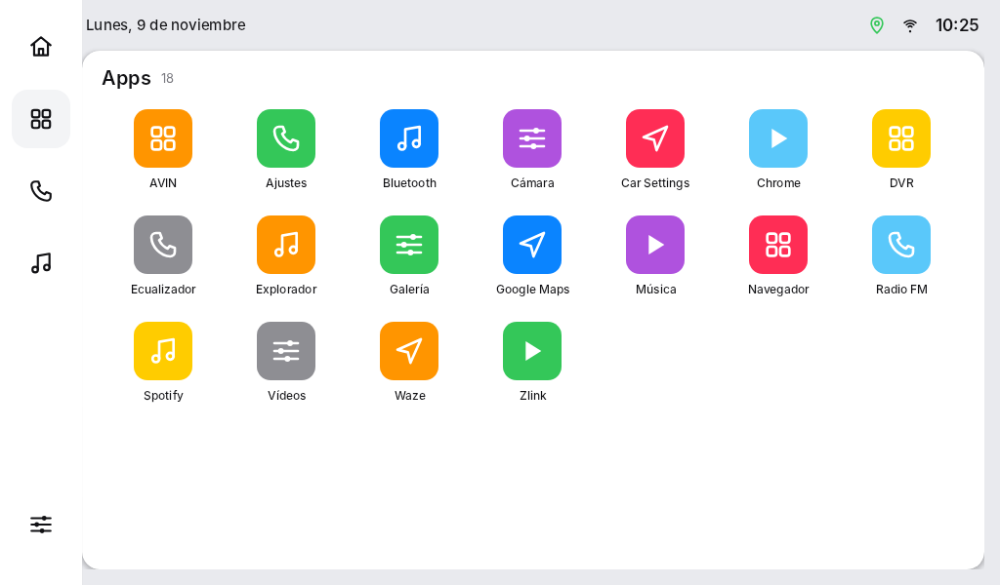
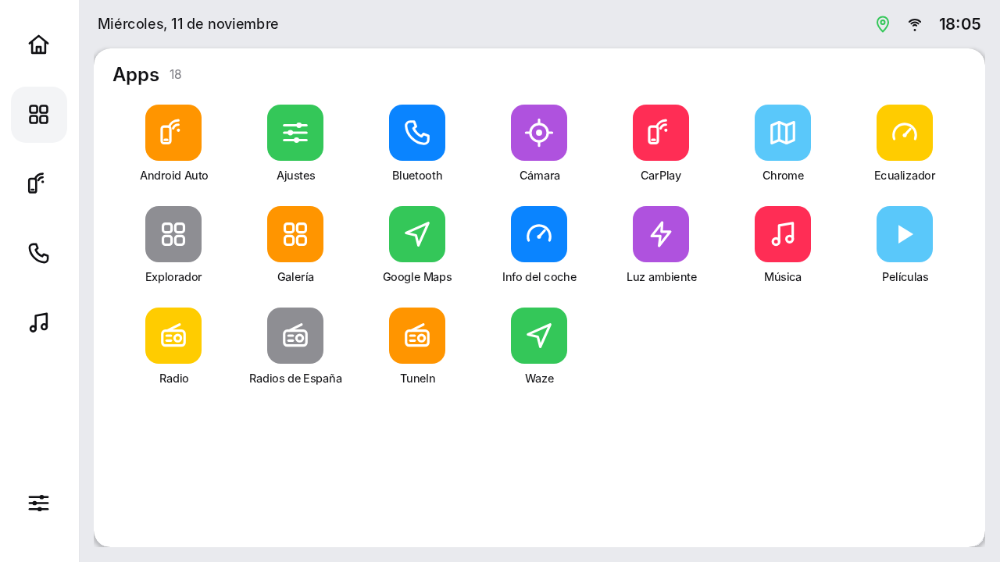
README: EdgeOS Car en portada, radios compatibles y cómo se construyó
El README principal presenta los dos launchers y explica EdgeOS Car a
fondo: capturas nuevas a 1280×720 (Inicio claro y oscuro, Música, Apps,
Sistema, constructor y Sistema completa en oscuro), qué hace, radios
compatibles y qué necesita cada función, cómo instalarlo, cómo se
construyó y cómo se comprueba. car/README.md se pone al día (versión 0.8,
pantalla 1280×720 de la k80_bsp).

Claude-Session: https://claude.ai/code/session_01PvmPvmMTmhy1XMN1nUXEbe

diff --git a/README.md b/README.md
@@ -1,128 +1,227 @@
 <div align="center">
 
-# EdgeOS · Vidrio
+# EdgeOS
 
-**Un launcher para Android con aspecto de iOS 26 ("Liquid Glass") que además limpia las apps de fábrica, sin root y sin PC.**
+**Dos launchers para Android: uno para la radio del coche y otro para el móvil.**
 
-Pensado para el **Motorola Edge 70 con Android 16**. Funciona en cualquier Android 13 o superior.
-
-[Qué hace](#qué-hace) · [Capturas](#capturas) · [Instalación](docs/INSTALACION.md) · [Volver atrás](#volver-atrás) · [Licencias](#licencias)
+[EdgeOS Car](#edgeos-car-la-radio-del-coche) · [Radios compatibles](#radios-compatibles) · [Instalar](#instalar-edgeos-car) ·
+[Cómo se construyó](#cómo-se-construyó) · [Vidrio (móvil)](#vidrio-el-móvil) · [Licencias](#licencias)
 
 </div>
 
-> [!IMPORTANT]
-> **Versión 0.1: compila, pero aún no se ha probado en un teléfono.** Si algo falla al abrirla, abre un *issue*
-> con lo que pasó.
->
-> Las imágenes de abajo son **maquetas del diseño**, no capturas reales. Se cambiarán por capturas del Edge 70
-> en cuanto la app funcione.
+| | Para | Qué es |
+|---|---|---|
+| **[EdgeOS Car](#edgeos-car-la-radio-del-coche)** | Radios Android de coche (Android 8 o superior) | Una capa completa sobre la radio: velocidad por GPS, mapa sin internet, música de cualquier fuente, tu coche a medida, modo oscuro y una pantalla para optimizar el sistema. |
+| **[Vidrio](#vidrio-el-móvil)** | Móviles con Android 13 o superior | Un inicio con aspecto de iOS 26 ("Liquid Glass") que limpia las apps de fábrica sin root. |
 
-## Qué hace
+---
 
-- **Inicio estilo iPhone**: cuadrícula de 4 columnas por páginas, puntos de página, botón **Buscar** sobre el
-  dock e iconos en cuadrado redondeado (sin la máscara de cada fabricante).
-- **Dock de vidrio** con hasta 4 apps. La primera vez pone el teléfono, los mensajes, el navegador y la cámara.
-- **Búsqueda** sin distinguir tildes ni mayúsculas: "camara" encuentra "Cámara".
-- **Mantener pulsada una app**: añadirla o quitarla del dock, ver su información, desinstalarla.
-- **Mantener pulsado el fondo**: cambiar el fondo de pantalla, ir a Limpieza o hacer de Vidrio el inicio.
-- **Limpieza** con [Shizuku](https://shizuku.rikka.app/): desactiva con `pm disable-user` las apps que la lista de
-  [UAD-ng](https://github.com/Universal-Debloater-Alliance/universal-android-debloater-next-generation) marca como
-  seguras de quitar. **No borra nada**, y *Restaurar todo* las vuelve a activar.
+## EdgeOS Car: la radio del coche
 
-El efecto de vidrio es [Kyant0/AndroidLiquidGlass](https://github.com/Kyant0/AndroidLiquidGlass): desenfoque,
-refracción en los bordes y viveza de color, en tiempo real.
+Las radios Android baratas traen un sistema lento, lleno de apps de fábrica, y cada función (radio, música,
+Bluetooth, Android Auto) con una interfaz distinta. **EdgeOS Car las reúne en una sola**, clara, rápida y pensada
+para mirarla de reojo mientras conduces. Las apps del fabricante siguen debajo, como "motores", pero ya no hace falta
+abrirlas.
 
-## Capturas
+> [!NOTE]
+> **Versión 0.8.** Está en uso en una radio k80_bsp de Reglink (Android 8.1). La **radio FM** y el **teléfono**
+> propios están en desarrollo: por ahora, esos accesos abren las apps de fábrica.
 
-<sub>Maquetas del diseño hechas con las medidas del código (dp de la app = px de la imagen). No son capturas
-de la app en marcha. Los iconos son genéricos, como ejemplo: en tu teléfono se ven los de tus apps.</sub>
+### Capturas
 
 <table>
   <tr>
-    <td align="center"><img src="docs/screenshots/home.png" width="260" alt="Pantalla de inicio: cuadrícula de iconos, puntos de página, botón Buscar y dock de vidrio"><br><b>Inicio</b></td>
-    <td align="center"><img src="docs/screenshots/search.png" width="260" alt="Búsqueda: el fondo desenfocado y los resultados de 'ca'"><br><b>Búsqueda</b></td>
-    <td align="center"><img src="docs/screenshots/menu.png" width="260" alt="Menú de una app: añadir al dock, información y desinstalar"><br><b>Menú de una app</b></td>
+    <td align="center"><img src="car/docs/home.png" width="440" alt="Inicio: tu coche con la velocidad, el panel de conducción, la música y los accesos rápidos"><br><b>Inicio</b></td>
+    <td align="center"><img src="car/docs/home-oscuro.png" width="440" alt="Inicio en modo oscuro"><br><b>Modo oscuro</b> (automático al anochecer)</td>
   </tr>
   <tr>
-    <td align="center"><img src="docs/screenshots/settings.png" width="260" alt="Ajustes del launcher al mantener pulsado el fondo"><br><b>Ajustes</b></td>
-    <td align="center"><img src="docs/screenshots/debloat.png" width="260" alt="Limpieza: lista de apps de Motorola que se pueden desactivar"><br><b>Limpieza</b></td>
+    <td align="center"><img src="car/docs/musica.png" width="440" alt="Música: lo que suena con carátula y controles, y la lista de canciones"><br><b>Música</b> de cualquier fuente</td>
+    <td align="center"><img src="car/docs/apps.png" width="440" alt="Todas las apps de la radio en una cuadrícula"><br><b>Apps</b></td>
+  </tr>
+  <tr>
+    <td align="center"><img src="car/docs/system.png" width="440" alt="Sistema: estado, optimización, ajustes y servicios innecesarios"><br><b>Sistema</b></td>
+    <td align="center"><img src="car/docs/carrocerias.png" width="440" alt="Las siete carrocerías del constructor de coche"><br><b>Constructor de coche</b></td>
+  </tr>
+</table>
+
+<details>
+<summary>Sistema completa, en modo oscuro (mapas, botones del volante y constructor)</summary>
+<br>
+<img src="car/docs/sistema-completo.png" width="560" alt="La pantalla Sistema entera en modo oscuro">
+</details>
+
+<sub>Son la interfaz real a 1280×720, dibujada en el ordenador con el motor de Android Studio y **datos de ejemplo**
+(velocidad, canciones, apps): no son fotos de la radio. El mapa no aparece porque necesita sus archivos de mapa, y
+en Sistema se lee "layoutlib" donde la radio pone su modelo.</sub>
+
+### Qué hace
+
+**Inicio**
+- **Tu coche visto desde arriba** con la **velocidad por GPS** en grande, el rumbo y la altitud. La aguja, el número
+  y el mapa se mueven de forma fluida: el GPS da un dato por segundo y EdgeOS calcula los fotogramas intermedios.
+- **En el centro, a elegir:** el **mapa** (OpenStreetMap en gris, **sin internet** con los mapas descargados) con el
+  botón *Navegar*, o un **panel de conducción** con velocímetro, distancia, tiempo en marcha, media y máxima.
+- **Música** y **accesos rápidos**: Android Auto, Radio, Teléfono y Navegar. Cada uno encuentra solo la app de tu radio.
+
+**Música**: una pantalla para **cualquier fuente** (Bluetooth del móvil, Spotify, TuneIn, Android Auto…), con
+carátula, barra de progreso que se arrastra y selector de fuentes, más un **reproductor propio** para la memoria
+interna y los USB que se pausa solo durante las llamadas.
+
+**Sistema**
+- **Estado** de la radio: memoria, almacenamiento y temperatura del procesador.
+- **Optimización**: liberar memoria, animaciones más rápidas y **servicios innecesarios** desactivables, como el
+  actualizador Adups, que envía datos a China. **Nada del coche aparece nunca** (radio, cámara, Bluetooth, CAN bus,
+  volante, audio, GPS) y *Restaurar todo* lo devuelve.
+- **Tema**: claro, oscuro o automático (amanecer y atardecer según donde estés).
+- **Mapas sin conexión**: la Comunidad de Madrid de un toque, o cualquier región del catálogo.
+- **Botones del volante**: los que llegan a Android se aprenden (una acción al pulsar y otra al mantener); los que
+  van por el microcontrolador de la radio se configuran en su herramienta de fábrica, enlazada desde aquí.
+- **Tu coche**: siete carrocerías y doce colores, o una foto propia (con una guía para crearla con IA).
+
+Todo en **pantalla completa**, sin la barra del sistema. Los detalles de cada función están en
+[`car/README.md`](car/README.md).
+
+### Radios compatibles
+
+**Requisitos:** Android **8.0 o superior** y pantalla horizontal, de cualquier resolución (el diseño se escala;
+revisado a 1024×600 y a 1280×720). Para la velocidad hace falta el GPS de la radio; internet es opcional.
+
+| Radio | Estado |
+|---|---|
+| **k80_bsp de Reglink** (MediaTek MT6580, 1 GB, Android 8.1 aunque se anuncie como 12, 1280×720, firmware `CMENZX80-U1`) | ✅ **En uso.** Es la radio para la que se hizo, inspeccionada a fondo. |
+| Otras radios **Reglink / "alps" con MT6580** | 🟡 Deberían funcionar igual (misma plataforma). Sin probar. |
+| **FYT** (Joying, Atoto…), **MTCD/MTCE** (PX5/PX6), **TS10**, **Allwinner T3/T5** y otras genéricas con Android 8–13 | 🟡 El launcher debería funcionar. Botones del volante y radio FM dependen de cada fabricante. Sin probar. |
+| Radios con Android 7 o anterior | ❌ No compatibles. |
+
+Qué necesita cada función:
+
+| Función | Funciona en |
+|---|---|
+| Inicio, velocidad, mapa, música, apps, tema, tu coche | Cualquier radio con Android 8+ |
+| Servicios innecesarios y animaciones rápidas | Radios con **root** o con el **ADB por red** activo (la mayoría lo traen); sin instalar nada más |
+| Botones del volante | Los que llegan a Android como teclas. En la k80_bsp van por el microcontrolador: se usa la herramienta de fábrica |
+| Android Auto | Radios con app receptora: Zlink, AutoKit, Carlinkit, TLink o la propia (en la k80_bsp, `yellow.android.aasink`) |
+| Radio FM y teléfono propios | En desarrollo, primero para la k80_bsp |
+
+¿Tienes otra radio? El script [`tools/inspeccionar-radio.sh`](tools/inspeccionar-radio.sh) la estudia por ADB sin
+cambiar nada; con su informe se puede adaptar EdgeOS Car a ella.
+
+### Instalar EdgeOS Car
+
+**Con Claude Code (lo fácil).** En una terminal:
+```bash
+git clone https://github.com/Smith-Develop/EdgeOS.git
+cd EdgeOS
+claude
+```
+y dile: *"Instala EdgeOS Car en mi radio Android, está en 192.168.1.50. Ve diciéndome lo que necesites de mí."*
+Instala lo que falte en el ordenador, compila, instala en la radio y solo te pide lo que se hace con la radio
+delante. Sigue [`CLAUDE.md`](CLAUDE.md).
+
+**A mano.** `./gradlew :car:assembleDebug`, copia `car/build/outputs/apk/debug/car-debug.apk` a la radio (memoria
+USB o `adb install -r`), ábrelo, acepta el permiso de ubicación y elige **EdgeOS Car** como pantalla de inicio. No
+desactives el launcher de fábrica: así siempre puedes volver a él. Los detalles están en [`car/README.md`](car/README.md).
+
+### Cómo se construyó
+
+EdgeOS Car se hizo **en conversación con [Claude Code](https://claude.com/claude-code)**: el propietario de la
+radio decidía qué quería y hacía las pruebas con la radio delante, y Claude escribía el código, lo compilaba y lo
+revisaba.
+
+1. **Punto de partida.** La idea viene de [Free My TV](https://github.com/simbasjungles/free-my-tv), que hace lo
+   mismo con los televisores: un inicio limpio y apps de fábrica desactivadas sin root. Su cliente ADB (MIT) es la
+   base de cómo EdgeOS Car consigue permisos de sistema.
+2. **Diseño.** Se partió de dos referencias de salpicaderos (tarjetas claras, coche visto desde arriba, mapa) y se
+   llevó a una cuadrícula de 1024×600 que se escala a cualquier pantalla.
+3. **Estudiar la radio antes de programar.** `tools/inspeccionar-radio.sh` sacó por ADB todo lo necesario: la
+   pantalla real (1280×720), Android 8.1 de verdad, la plataforma Reglink, que la radio FM usa el chip del MT6580 a
+   través de la app `mtkradio`, que los botones del volante no llegan a Android y que no hay caja CAN instalada.
+   Cada decisión de abajo sale de ese informe.
+4. **Iterar con la radio.** Cada versión se probó en el coche y se corrigió lo que fallaba: el coche que salía en
+   blanco, la velocidad a saltos, la barra del sistema que se veía arriba…
+
+**Decisiones técnicas**
+- **Vistas clásicas de Android, sin Compose ni AndroidX:** la radio tiene una GPU Mali-400 y 1 GB de RAM, y así va
+  más ligera. El APK ocupa unos 3 MB.
+- **Fluidez:** valores animados fotograma a fotograma con `Choreographer` (`ui/Tween.kt`), y animaciones que se
+  paran cuando no se ven, para no gastar procesador con otra app delante.
+- **Permisos sin apps externas:** root si lo hay; si no, un cliente ADB propio que se conecta a la propia radio en
+  `127.0.0.1:5555` (`system/LocalAdb.kt`). Solo se desactiva con `pm disable-user`, nunca se desinstala.
+- **Coche dibujado, no foto:** las carrocerías son trazados con degradados (`ui/CarArt.kt`). En esta GPU, las
+  imágenes grandes dentro de tarjetas recortadas podían no pintarse.
+- **Mapas vectoriales** de Mapsforge con datos de OpenStreetMap, dibujados en la propia radio: funcionan sin
+  internet y siguen el modo oscuro.
+- **Una sola sesión multimedia por fuente:** la música de cualquier app se lee y se controla con las sesiones
+  multimedia de Android; el reproductor propio publica la suya, para que lo controlen los botones del volante.
+
+**Cómo se comprueba**
+- Compila con AGP 9.3 y Kotlin 2.4 (`compileSdk 37`, `minSdk 26`, `targetSdk 36`).
+- La interfaz se revisa sin radio, dibujándola a 1024×600 y 1280×720 con
+  [Paparazzi](https://github.com/cashapp/paparazzi) (el motor de vista previa de Android Studio): así salen las
+  capturas de arriba, y así apareció un fallo que cerraba la app al arrancar antes de que llegara a la radio.
+- Pruebas unitarias del lector del catálogo de mapas (`./gradlew :car:testDebugUnitTest`).
+- Lo que no se puede ver en el ordenador (GPS, sesiones multimedia, ADB) se prueba en la radio, y la app deja
+  diagnóstico en `adb logcat -s EdgeOSCar`.
+
+**Próximos pasos:** radio FM propia (dial, emisoras y RDS), teléfono por Bluetooth, y datos del coche (puertas,
+luces, gasolina) con una caja CAN o un adaptador OBD2, con un modo para "enseñarle" a reconocerlos.
+
+---
+
+## Vidrio: el móvil
+
+Un launcher con aspecto de iOS 26 ("Liquid Glass") que además limpia las apps de fábrica, sin root y sin PC.
+Pensado para el **Motorola Edge 70 con Android 16**; funciona en cualquier Android 13 o superior.
+
+> [!IMPORTANT]
+> **Versión 0.1: compila, pero aún no se ha probado en un teléfono.** Las imágenes son **maquetas del diseño**,
+> no capturas reales.
+
+- **Inicio estilo iPhone**: cuadrícula de 4 columnas por páginas, puntos de página, botón **Buscar** sobre el
+  dock e iconos en cuadrado redondeado.
+- **Dock de vidrio** con hasta 4 apps; la primera vez pone teléfono, mensajes, navegador y cámara.
+- **Búsqueda** sin distinguir tildes ni mayúsculas.
+- **Mantener pulsada una app**: dock, información, desinstalar. **Mantener pulsado el fondo**: fondo de pantalla,
+  Limpieza, hacer de Vidrio el inicio.
+- **Limpieza** con [Shizuku](https://shizuku.rikka.app/): desactiva las apps que
+  [UAD-ng](https://github.com/Universal-Debloater-Alliance/universal-android-debloater-next-generation) marca como
+  seguras de quitar. **No borra nada** y *Restaurar todo* las vuelve a activar.
+
+El vidrio es [Kyant0/AndroidLiquidGlass](https://github.com/Kyant0/AndroidLiquidGlass): desenfoque, refracción y
+viveza de color en tiempo real.
+
+<table>
+  <tr>
+    <td align="center"><img src="docs/screenshots/home.png" width="220" alt="Pantalla de inicio: cuadrícula de iconos, puntos de página, botón Buscar y dock de vidrio"><br><b>Inicio</b></td>
+    <td align="center"><img src="docs/screenshots/search.png" width="220" alt="Búsqueda: el fondo desenfocado y los resultados de 'ca'"><br><b>Búsqueda</b></td>
+    <td align="center"><img src="docs/screenshots/menu.png" width="220" alt="Menú de una app: añadir al dock, información y desinstalar"><br><b>Menú de una app</b></td>
+  </tr>
+  <tr>
+    <td align="center"><img src="docs/screenshots/settings.png" width="220" alt="Ajustes del launcher al mantener pulsado el fondo"><br><b>Ajustes</b></td>
+    <td align="center"><img src="docs/screenshots/debloat.png" width="220" alt="Limpieza: lista de apps de Motorola que se pueden desactivar"><br><b>Limpieza</b></td>
     <td></td>
   </tr>
 </table>
 
-## Instalación
+**Instalar:** con Claude Code, dile *"Instala EdgeOS en mi Moto Edge 70. Ve diciéndome lo que necesites de mí."*
+A mano, la guía paso a paso está en [`docs/INSTALACION.md`](docs/INSTALACION.md).
 
-### La forma fácil: con Claude Code
+**Volver atrás:** Limpieza → *Restaurar todo*, y en Ajustes → Apps → Apps predeterminadas → App de inicio, el
+launcher de Motorola. Vidrio nunca ofrece desactivar launchers, Ajustes, la interfaz del sistema ni Shizuku.
 
-El repo trae instrucciones para [Claude Code](https://claude.com/claude-code) ([`CLAUDE.md`](CLAUDE.md)): él
-instala las herramientas, compila, corrige los errores, instala la app en el teléfono y solo te pide lo que tienes
-que hacer tú con el móvil en la mano.
+**Cómo está hecho:** Kotlin + Jetpack Compose, AGP 9.3, Kotlin 2.4, `compileSdk 37`, `minSdk 33`, `targetSdk 36`.
+El fondo lo dibuja el propio launcher: Android 13+ no deja que una app normal lea el del sistema.
 
-1. Instala Claude Code en tu ordenador ([guía](https://code.claude.com/docs/en/quickstart)).
-2. Abre una terminal y ejecuta:
-   ```bash
-   git clone https://github.com/Smith-Develop/EdgeOS.git
-   cd EdgeOS
-   claude
-   ```
-3. Dile:
-   > Instala EdgeOS en mi Moto Edge 70. Ve diciéndome lo que necesites de mí.
-
-Te pedirá permiso antes de instalar algo en el ordenador o de cambiar algo en el teléfono.
-
-### A mano
-
-La guía completa, paso a paso y con solución de problemas, está en **[docs/INSTALACION.md](docs/INSTALACION.md)**.
-En resumen:
-
-1. En el móvil, activa las **Opciones de desarrollador** y la **Depuración USB**.
-2. En el PC, instala [Android Studio](https://developer.android.com/studio) y abre esta carpeta.
-3. Conecta el móvil por USB y pulsa ▶ *Run 'app'* (o `./gradlew installDebug`).
-4. En el móvil, abre Vidrio → mantén pulsado el fondo → *Usar Vidrio como inicio*.
-5. Para Limpieza: instala **Shizuku**, inícialo con *Depuración inalámbrica* y dale permiso a Vidrio.
-
-## Volver atrás
-
-- **Apps desactivadas**: Limpieza → *Restaurar todo*. Si desinstalaste Vidrio sin restaurar, actívalas desde
-  Ajustes → Apps, o con `adb shell pm enable <paquete>`.
-- **Launcher de Motorola**: Ajustes → Apps → Apps predeterminadas → App de inicio → el launcher de Motorola.
-
-Vidrio nunca ofrece desactivar ningún launcher (tampoco el de Motorola), ni Ajustes, la interfaz del sistema o
-Shizuku. Las apps que UAD-ng marca como *Expert* o *Unsafe* no aparecen nunca.
-
-## Cómo está hecho
-
-| Carpeta | Qué hay |
-|---|---|
-| `app/src/main/kotlin/io/vidrio/launcher/` | `MainActivity` (la actividad HOME), `AppsModel` (apps e iconos), `Prefs` |
-| `…/ui/` | Compose: `Home`, `Overlays` (búsqueda, menús), `DebloatScreen`, `Glass` (el vidrio), `Wallpaper` |
-| `…/debloat/` | `Shell` (comandos vía Shizuku) y `Debloater` (la lista de UAD-ng, desactivar y restaurar) |
-| `docs/` | La guía de instalación y las imágenes |
-
-- Kotlin + Jetpack Compose, AGP 9.3, Kotlin 2.4, `compileSdk 37`, `minSdk 33`, `targetSdk 36`.
-- El fondo lo dibuja el propio launcher: Android 13+ no deja que una app normal lea el fondo del sistema,
-  y el vidrio solo puede desenfocar lo que hay en su propia ventana.
-
-## Próximos pasos
-
-- [ ] Compilar y probar en el Edge 70, y cambiar las maquetas por capturas reales.
-- [ ] Reordenar iconos arrastrándolos y carpetas.
-- [ ] Widgets (reloj, tiempo) y la Biblioteca de apps.
-- [ ] Centro de control y animaciones al abrir apps.
+---
 
 ## Licencias
 
-- Código de EdgeOS · Vidrio: aún sin licencia elegida.
-- La lista de UAD-ng es **GPL-3**: se **descarga** al usar Limpieza y no va dentro del APK.
+- Código de EdgeOS (Car y Vidrio): aún sin licencia elegida.
+- [osmdroid](https://github.com/osmdroid/osmdroid): Apache 2.0. [Mapsforge](https://github.com/mapsforge/mapsforge):
+  LGPL-3.0. Datos de mapa © colaboradores de [OpenStreetMap](https://www.openstreetmap.org/copyright), ODbL.
+- Cliente ADB de EdgeOS Car adaptado de [Free My TV](https://github.com/simbasjungles/free-my-tv) (MIT).
 - [AndroidLiquidGlass](https://github.com/Kyant0/AndroidLiquidGlass) (`backdrop`, `shapes`): Apache 2.0.
-- [Shizuku API](https://github.com/RikkaApps/Shizuku-API): Apache 2.0.
+  [Shizuku API](https://github.com/RikkaApps/Shizuku-API): Apache 2.0.
+- La lista de UAD-ng es **GPL-3**: se **descarga** al usarla y no va dentro de los APK.
 - Fuente Inter: SIL Open Font License ([`LICENSE-Inter-OFL.txt`](LICENSE-Inter-OFL.txt)).
-- No se usa ningún recurso de Apple: ni iconos, ni SF Symbols, ni SF Pro, ni fondos.
-
-## EdgeOS Car
-
-En [`car/`](car/README.md) hay un segundo launcher, para **radios Android de coche** (la k80_bsp y parecidas):
-velocidad por GPS, mapa o panel de conducción, música, accesos rápidos y una pantalla para optimizar la radio y
-desactivar servicios innecesarios sin root.
-
-Inspirado en [Free My TV](https://github.com/simbasjungles/free-my-tv).
+- No se usa ningún recurso de Apple ni de fabricantes de coches.

diff --git a/car/README.md b/car/README.md
@@ -5,11 +5,12 @@ visto desde arriba con la velocidad, el mapa o un panel de conducción, la músi
 **Sistema**, una pantalla para optimizar la radio y desactivar servicios que no hacen falta, sin root y con
 vuelta atrás.
 
-Pensado para la **k80_bsp** (MediaTek MT6580, Android 8.1, 1024×600) y radios parecidas. Funciona desde Android 8.0.
+Pensado para la **k80_bsp** de Reglink (MediaTek MT6580, Android 8.1, 1280×720) y radios parecidas. Funciona desde
+Android 8.0. Qué radios son compatibles: [README principal](../README.md#radios-compatibles).
 
 > [!NOTE]
-> **Versión 0.1, compilada pero sin probar en una radio.** El APK se genera sin errores y la interfaz se ha
-> revisado en el ordenador (las capturas de abajo), pero todavía no ha funcionado en ningún aparato real.
+> **Versión 0.8, en uso en una k80_bsp.** La radio FM y el teléfono propios están en desarrollo: por ahora, esos
+> accesos abren las apps de fábrica.
 
 <table>
   <tr>
@@ -25,7 +26,7 @@ Pensado para la **k80_bsp** (MediaTek MT6580, Android 8.1, 1024×600) y radios p
   </tr>
 </table>
 
-<sub>Capturas de la interfaz real, dibujada con el motor de Android Studio a 1024×600 y con datos de ejemplo
+<sub>Capturas de la interfaz real, dibujada con el motor de Android Studio a 1280×720 y con datos de ejemplo
 (velocidad, canción, apps). No vienen de una radio: el mapa no aparece porque necesita internet, y la pantalla
 Sistema muestra "layoutlib" en vez del modelo y deja la memoria en blanco, cosas que en la radio salen bien.</sub>
 
